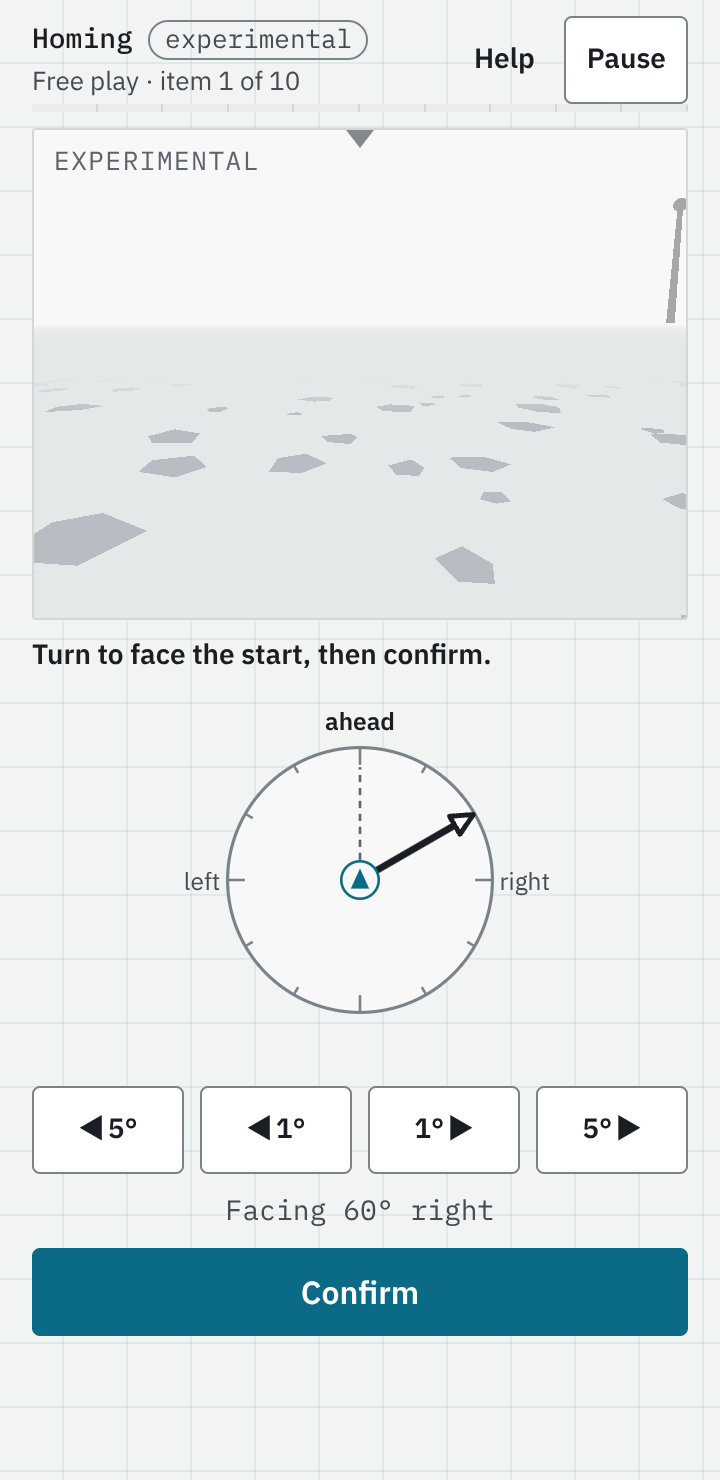
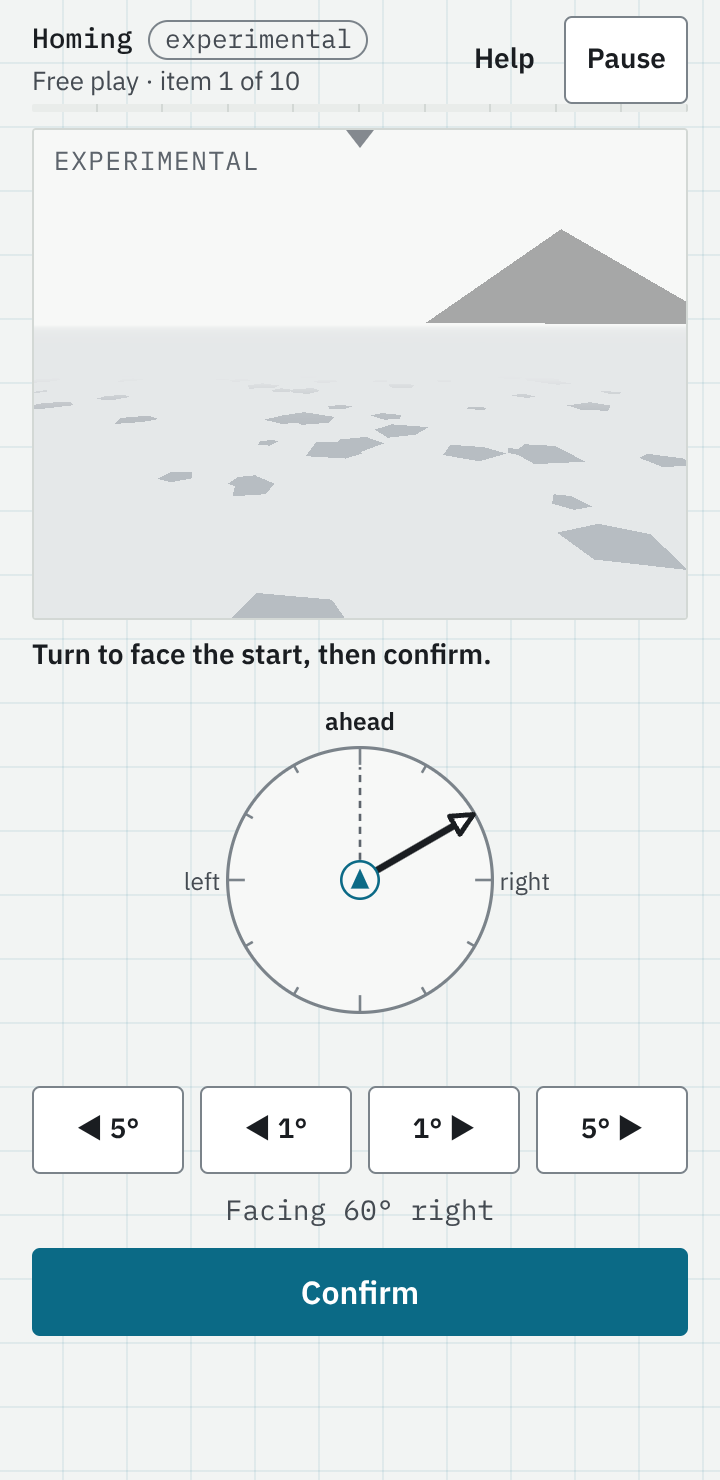
G1 final: Homing/Reckon figures, stage and level wording, PDF 50 pages clean

diff --git a/docs/guide/guide.html b/docs/guide/guide.html
@@ -700,7 +700,7 @@
       <header class="ex-head"><span class="spec">EX-11 · Homing · NAV</span><h2>Homing</h2><span class="kind">Navigation with landmarks</span><span class="badge warn">experimental</span></header>
       <div class="ex-body">
         <div class="ex-figs">
-          <figure><div class="shot"><img src="../shots/ex11-homing.png" alt="Homing: a first-person view of a plain with marks on the ground, an arrow circle and fine-turn buttons"></div><figcaption><span class="label">Question</span>On the walk: the circle and the turn buttons wait until the route ends.</figcaption></figure>
+          <figure><div class="shot"><img src="../shots/ex11-homing.png" alt="Homing: a first-person view of a plain with a dome on the horizon, an arrow circle and fine-turn buttons"></div><figcaption><span class="label">Question</span>On the walk: a dome on the horizon is a landmark.</figcaption></figure>
           <figure><div class="shot"><img src="../shots/ex11-homing-showme.png" alt="Homing show me: the route from above with its turn and three landmarks, your arrow on the circle, and a hint about the slip"></div><figcaption><span class="label">Show me, paused</span>The route from above, with its 122° turn and three landmarks; a hint names the slip.</figcaption></figure>
         </div>
         <div class="ex-text">
@@ -747,9 +747,9 @@
   <div class="content">
     <h2>Navigation without fixes</h2>
     <div class="phone-row narrow">
-      <figure class="app-fig phone"><div class="shot"><img src="../shots/app-homing-phone.png" alt="Homing on a phone: a far landmark at the right edge of the horizon, the arrow circle turned 60 degrees right, fine-turn buttons and Confirm"></div>
-        <figcaption><span class="label">Fig. 3.2</span>Homing on a phone, turned 60° right; a far landmark stands at the right edge.</figcaption></figure>
-      <figure class="app-fig phone"><div class="shot"><img src="../shots/app-reckon-phone.png" alt="Reckon on a phone during the walk back: the circle set at 139 degrees right, and Back, Walk and Here"></div>
+      <figure class="app-fig phone"><div class="shot"><img src="../shots/app-homing-phone.png" alt="Homing on a phone: a mountain on the horizon to the right, the arrow circle turned 60 degrees right, fine-turn buttons and Confirm"></div>
+        <figcaption><span class="label">Fig. 3.2</span>Homing on a phone, turned 60° right; the mountain is a landmark.</figcaption></figure>
+      <figure class="app-fig phone"><div class="shot"><img src="../shots/app-reckon-phone.png" alt="Reckon on a phone during the walk back: the circle set at 124 degrees right, and Back, Walk and Here"></div>
         <figcaption><span class="label">Fig. 3.3</span>Reckon on a phone, part of the way back.</figcaption></figure>
       <div>
         <h3>Why Reckon has no landmarks</h3>

diff --git a/docs/dev/progress/G1.md b/docs/dev/progress/G1.md
@@ -4,6 +4,7 @@ Owner of: docs/guide/guide.html, docs/guide/guide.css, tools/shots.py (new shots
 Does not touch: js/, css/, tests/. Does not run git.
 
 ## Log
+- 21:04 UTC: FINAL. Re-shot ex11-homing (+showme), ex12-reckon (+feedback), app-homing-phone, app-reckon-phone, app-summary ("Typical at this level"), app-section-review (names the PAT/DAT), all viewed. Texts: Homing landmarks "placed where the walk shows them", 1°/5° buttons turn on release so swipes scroll (guide p19, CHANGELOG), Path stage "names the settings it goes up to; its items mix in easier ones too", levels/summary "settings typical of" that difficulty; captions (dome, mountain, 124°). Build: 50 pages, no overflow, 198 + 14 links.
 - 20:53 UTC: lead's final message: B3 35ae8c5 done (±5° on release, Homing landmarks stay in view along a leg, Reckon explanation scroll, walk-back fits 360×640); lead: Path stage text, summaries "Typical at this level", Section names the PAT/DAT. Re-shoot homing, reckon, phone shots (+ summary, section review); fix texts; rebuild.
 - 20:49 UTC: final re-shoot (all but Homing/Reckon): 33 figures (8 exercise figures incl. Knots untie; 25 app screens incl. Section review), all viewed; visibly changed: Angles (A–D, lists like D – B – A – C), Openings (solid fills its stage, digit strip), welcome, Today, summary, progress, goal, settings, player; captions still hold. Texts: Angles card (letters, example list), Watch step ("your turn … or skip to Try"), DAT focus effect (at least one per session, untried first, Today says so) in guide/README/CHANGELOG, Today's empty states. Angles card trimmed to fit. Build: 50 pages, no overflow, 198 + 14 links.
 - 20:36 UTC: lead: last re-shoot (all but Homing/Reckon) after B5 84778af, B6 b1d3785/987817b, B4 418dcf1, B2 1d7514d/2e8dfbe, B1 1d7514d; check texts (Angles letters, Watch end, focus leads Today, Today empty states, plain-word summaries); rebuild.
@@ -46,7 +47,7 @@ Does not touch: js/, css/, tests/. Does not run git.
 4. `tests/e2e/pwslot.sh python3 tools/build-pdf.py --png <scratchpad>/guide-png`, look at pages 3, 18, 19, 20.
 
 ## For the lead
-- App text: the Section review says "The real test averages about 40 seconds an item" (js/ui/section.js); R3 §6 steers away from "real test" (the guide now says "the test's average pace").
+- (resolved by the lead) Section practice now names the Perceptual Ability Test / Dental Admission Test instead of "the real test".
 - ENGINE.md §11 lists Lab cluster B without Reckon; js/engine/model.js lab.B includes 'reckon' (the Lab screen shows Reckon in group B).
 - (resolved: lead added the Knots note in overlap.js; DECISIONS "(G1)") Knots (Pull) "Also in tests" note; the guide's hygiene table now says "a note".
 - (resolved by B6's fix round) Openings scale: the view now draws solid and openings at one scale (view.js fitScale); the guide says "drawn at the solid's scale".
